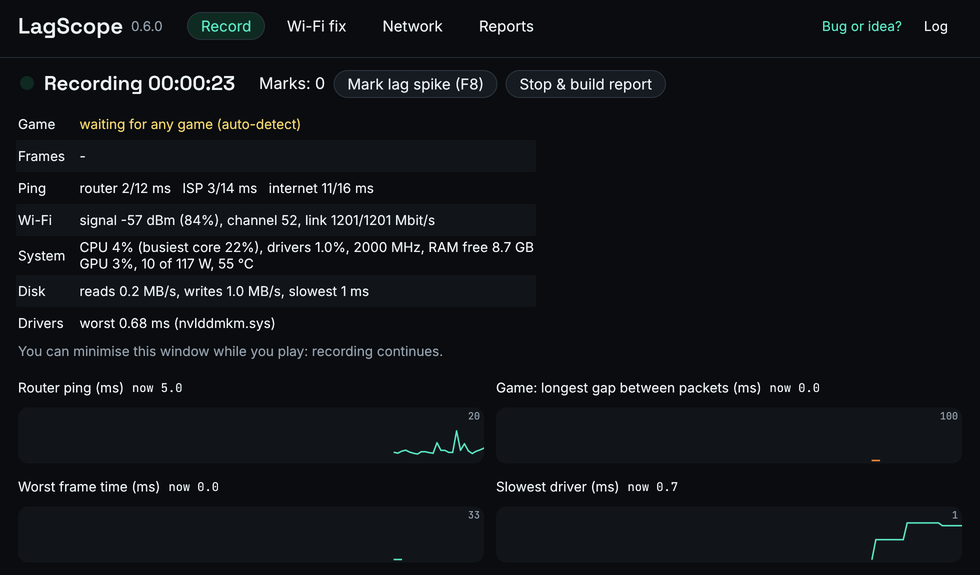
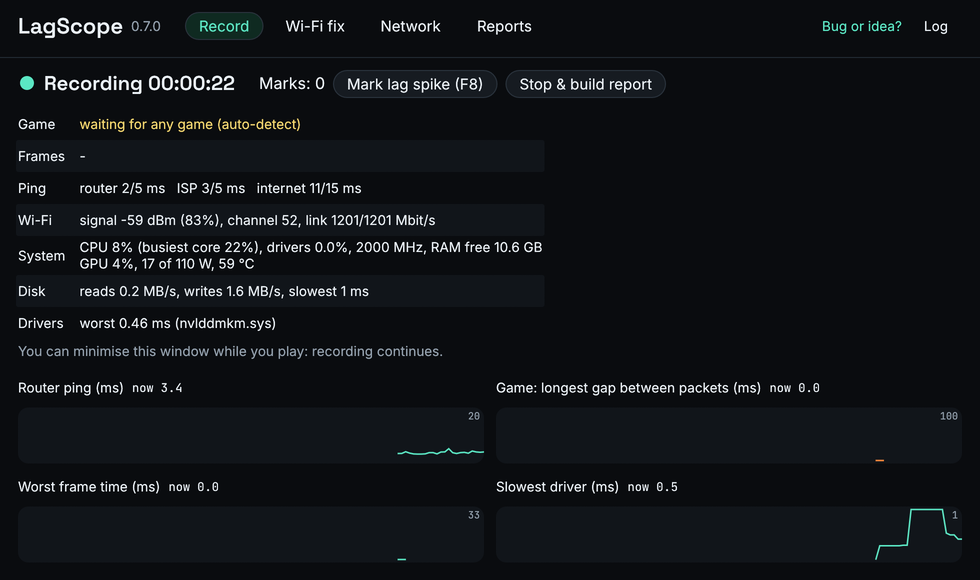
README: screenshots from 0.7.0 (#21)

diff --git a/README.md b/README.md
@@ -23,7 +23,7 @@ A problem shows up at the first link where it appears: if the router ping is cle
 |---|---|
 | ![Live view while recording](docs/screenshots/app_recording.png) | ![Result with the scorecard](docs/screenshots/app_result.png) |
 
-![Top of an HTML report](docs/screenshots/report.png)
+![Top of an HTML report: verdict, scorecard and Good for](docs/screenshots/report.png)
 
 ## Sharing a recording and AI analysis
 
